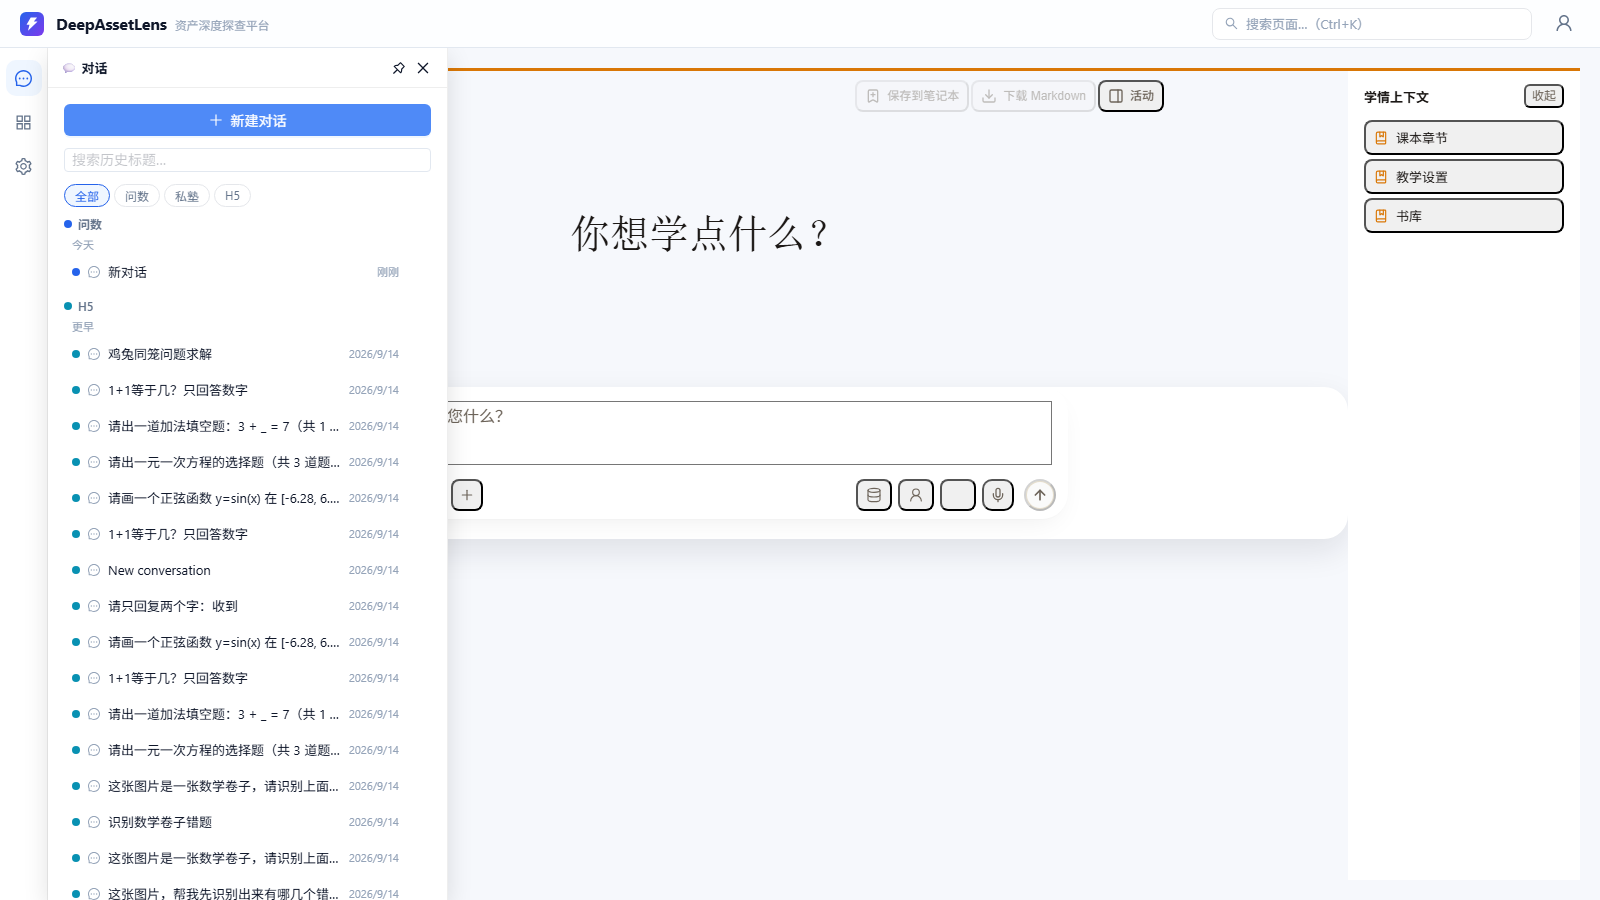
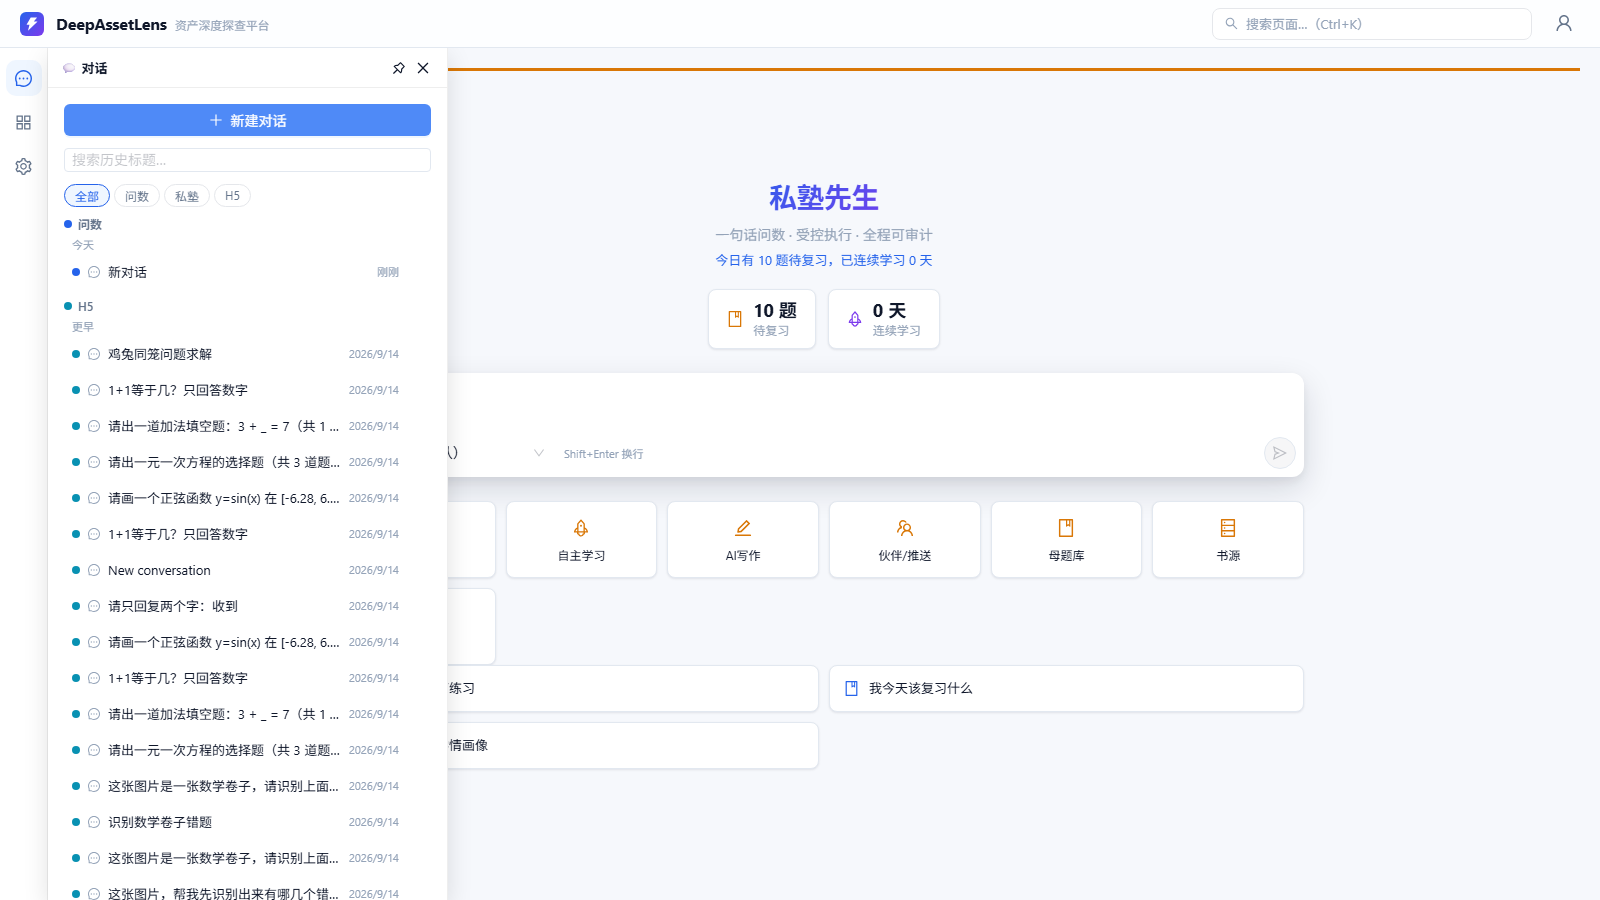
UX3修三BUG：①?new=1 清活跃位——store 刷新自动激活最近历史会话致点门户卡进历史对话，意图效果补 setActiveSessionId('') 落欢迎页；②/e/sishu/chat 换挂 ExpertChat——私塾风格收敛=问数同组件（琥珀色条+today-panel 胶囊+sishu 宫格），TutorHomeChat 全库无引用退役；③P0-C 探针断言更新到 UX2批「消费即剥」契约+补新建落欢迎页断言。对拍 13/13+P0 10/10+shell_v1 15/15，sishu 发送链路实测 freeplan stream expert_id=sishu 通。

diff --git a/frontend/src/config/expertPages.ts b/frontend/src/config/expertPages.ts
@@ -71,10 +71,11 @@ const PartnersNew = lazy(() => import(/* webpackChunkName: "dt-partners-new" */ 
 const PartnerDetail = lazy(() => import(/* webpackChunkName: "dt-partners-detail" */ '../pages/tutor/partners/PartnerDetail'));
 const SelfLearning = lazy(() => import(/* webpackChunkName: "dt-self-learning" */ '../pages/tutor/learning/SelfLearning'));
 
-// 引擎批2 2.5/2.6：DT 桌面对话窗口（home 页复刻壳+桥 SSE 态源——AgentChatContext）。
-// 静态路径 /e/sishu/chat 压过 routes.tsx 的 /e/:slug/chat 参数路由（v6 静态优先）；
-// ExpertChat 收归 wenshu（/e/wenshu/chat）——计划 2.6。
-const TutorHomeChat = lazy(() => import(/* webpackChunkName: "dt-tutor-home-chat" */ '../pages/tutor/chat/TutorHomeChat'));
+// 引擎批2 2.5/2.6 → UX3修：DT 桌面对话窗口原挂 TutorHomeChat（home 页复刻壳+桥 SSE 态源）。
+// UX3修：私塾对话收敛问数风格——/e/sishu/chat 改挂 ExpertChat（slug-aware：琥珀色条+
+// today-panel 统计胶囊+sishu 宫格），与 /e/wenshu/chat 同组件同骨架；静态路径仍压过
+// routes.tsx 的 /e/:slug/chat 参数路由（v6 静态优先）。TutorHomeChat 全库无引用，移除挂载。
+const ExpertChat = lazy(() => import(/* webpackChunkName: "expert-chat" */ '../pages/expert/ExpertChat'));
 
 const TUTOR_H5_PAGES: ExpertPageConfig[] = [
   // IA 件批1：16 条路由从 /e/sishu/{h5,notebook} 迁出 → /e/tutor-h5/*（menuKey 同步换前缀）；
@@ -147,7 +148,7 @@ export const EXPERT_PAGES: Record<string, ExpertPageConfig[]> = {
     // IA批6 6.3：桌面自主学习（use——与 h5 版 /e/tutor-h5/learn 并存，DT 本就两页各自 1:1）
     { path: '/e/sishu/self-learning', element: withUseGuard(SelfLearning), label: '自主学习', menuKey: 'e:sishu:self-learning' },
     // 引擎批2 2.6：DT 桌面对话窗口（navigation.tsx e:sishu:chat 既有占位→真路由）
-    { path: '/e/sishu/chat', element: withUseGuard(TutorHomeChat, 'sishu'), label: '对话', menuKey: 'e:sishu:chat' },
+    { path: '/e/sishu/chat', element: withUseGuard(ExpertChat, 'sishu'), label: '对话', menuKey: 'e:sishu:chat' }, // UX3修：风格收敛=问数同组件
     // 引擎批5 5.5：书籍工作台（DT book/page.tsx 1:1 壳件）
     { path: '/e/sishu/book', element: withUseGuard(BookWorkbench, 'sishu'), label: '书籍', menuKey: 'e:sishu:book' },
   ],

diff --git a/frontend/src/pages/expert/ExpertChat.tsx b/frontend/src/pages/expert/ExpertChat.tsx
@@ -142,6 +142,10 @@ const SUGGESTIONS = (card?.suggestions && card.suggestions.length > 0
     const sp = new URLSearchParams(location.search);
     if (sp.get('new') !== '1') return;
     newChatIntentRef.current = true;
+    // UX3修（BUG1）：清活跃位——store 刷新后自动指向最近历史会话（useStore init
+    // activeSessionId=_initialSessions[0]），仅设发送意图不清显示会照旧渲染历史对话。
+    // 置空串 → activeSession=undefined → hasMessages=false → 欢迎页；首问由意图位建新会话。
+    useStore.getState().setActiveSessionId('');
     sp.delete('new');
     navigate({ pathname: location.pathname, search: sp.toString() ? `?${sp.toString()}` : '' }, { replace: true });
     // eslint-disable-next-line react-hooks/exhaustive-deps

diff --git a/frontend/src/pages/ExpertPortal.tsx b/frontend/src/pages/ExpertPortal.tsx
@@ -63,7 +63,7 @@ const NewChatHome: React.FC = () => {
       navigate('/h5-publish');
       return;
     }
-    navigate(`/e/${slug}/chat`);
+    navigate(`/e/${slug}/chat?new=1`); // UX3修：?new=1 强制新会话（不复用残留活跃位）
   };
 
   return (

diff --git a/backend/scripts/_pw_ux3_fix.py b/backend/scripts/_pw_ux3_fix.py
@@ -1,0 +1,136 @@
+# -*- coding: utf-8 -*-
+"""UX3修 对拍：BUG1 门户卡→新会话欢迎页；BUG3 私塾风格收敛=问数同骨架；sishu 发送链路回归。
+
+断言账：
+B1a 首页门户卡在场（刷新后种子历史会话在 localStorage）
+B1b 点问数卡 → /e/wenshu/chat（?new=1 已清）
+B1c 历史消息未渲染（不再进历史对话）
+B1d 问数色条=蓝 + 欢迎页主视觉在场
+B3a 私塾色条=琥珀 #D97706（ExpertChat slug-aware）
+B3b 私塾功能宫格在场（sishu-space-grid）
+B3c today-panel 统计胶囊（待复习）
+B3d 旧 TutorHomeChat 欢迎语「下午好」退场
+S1  sishu 发送走 freeplan stream
+S2  请求带 expert_id=sishu
+S3  回复落定（loading 退场）
+零 pageerror
+"""
+import json
+import sys
+from pathlib import Path
+
+from playwright.sync_api import sync_playwright
+
+sys.stdout.reconfigure(encoding="utf-8", errors="replace")
+SCR = Path(__file__).parent
+BASE = "http://localhost:23000"
+R = []
+
+
+def check(name, ok, detail=""):
+    R.append((name, ok))
+    print(f"{'PASS' if ok else 'FAIL'}  {name}  {detail}"[:200], flush=True)
+
+
+SEED = json.dumps([{
+    "id": "ux3fix-hist", "title": "历史会话UX3修", "expertId": "wenshu",
+    "messages": [{"id": "m1", "role": "user", "text": "历史会话标记消息XYZABC", "payload": {}}],
+    "confirmed": {}, "flags": {}, "thinkStream": [], "pendingCandidates": [],
+    "finalTokens": [], "createdAt": 1700000000000,
+}], ensure_ascii=False)
+
+with sync_playwright() as p:
+    b = p.chromium.launch(headless=True)
+    sys.path.insert(0, str(SCR))
+    from _pw_login_util import login_page
+    pg = login_page(b)
+    pg.set_viewport_size({"width": 1920, "height": 1080})
+    errors = []
+    pg.on("pageerror", lambda e: errors.append(str(e)[:100]))
+
+    # ---------- BUG1: 首页刷新 → 点问数 → 欢迎页而非历史对话 ----------
+    pg.goto(BASE + "/", timeout=60000, wait_until="domcontentloaded")
+    pg.wait_for_timeout(4000)
+    pg.evaluate("(s) => localStorage.setItem('di_sessions_freeplan_v1', s)", SEED)
+    pg.reload(timeout=60000, wait_until="domcontentloaded")
+    pg.wait_for_timeout(6000)
+    cards = pg.locator("[data-testid='portal-card-wenshu']")
+    check("B1a 首页门户卡在场", cards.count() >= 1)
+    if cards.count():
+        cards.first.click()
+        pg.wait_for_timeout(4000)
+        url = pg.url
+        check("B1b 落点 /e/wenshu/chat（?new=1 已清）", "/e/wenshu/chat" in url and "new=1" not in url, url[:90])
+        hist = pg.locator("text=历史会话标记消息XYZABC")
+        check("B1c 历史消息未渲染", hist.count() == 0, f"hits={hist.count()}")
+        bar = pg.locator("[data-testid='space-color-bar']")
+        if bar.count():
+            bg = bar.first.evaluate("el => getComputedStyle(el).backgroundColor")
+            check("B1d 问数色条=蓝", "37, 99, 235" in bg, bg)
+        else:
+            check("B1d 问数色条=蓝", False, "bar not found")
+        welcome = pg.locator("text=数据资产探查")
+        check("B1d 欢迎页主视觉在场", welcome.count() >= 1, f"hits={welcome.count()}")
+        pg.screenshot(path=str(SCR / "_ux3fix_wenshu.png"))
+
+    # ---------- BUG3: 私塾风格收敛 ----------
+    pg.goto(BASE + "/e/sishu/chat?new=1", timeout=60000, wait_until="domcontentloaded")
+    pg.wait_for_timeout(7000)
+    bar2 = pg.locator("[data-testid='space-color-bar']")
+    if bar2.count():
+        bg2 = bar2.first.evaluate("el => getComputedStyle(el).backgroundColor")
+        check("B3a 私塾色条=琥珀#D97706", "217, 119, 6" in bg2, bg2)
+    else:
+        check("B3a 私塾色条=琥珀#D97706", False, "bar not found")
+    grid = pg.locator("[data-testid='sishu-space-grid']")
+    check("B3b 私塾功能宫格在场", grid.count() >= 1)
+    due = pg.locator("text=待复习")
+    check("B3c today-panel 统计胶囊", due.count() >= 1, f"hits={due.count()}")
+    old_title = pg.locator("text=下午好")
+    check("B3d 旧 TutorHomeChat 欢迎语退场", old_title.count() == 0, f"hits={old_title.count()}")
+
+    # ---------- sishu 发送链路（freeplan stream + expert_id=sishu）----------
+    req_info = {}
+
+    def on_req(req):
+        if "chat/freeplan/stream" in req.url:
+            req_info["url"] = req.url
+            try:
+                req_info["body"] = req.post_data or ""
+            except Exception:
+                req_info["body"] = ""
+
+    pg.on("request", on_req)
+    ta = pg.locator("textarea").first
+    if ta.count():
+        ta.click()
+        ta.fill("你好")
+        ta.press("Enter")
+        ok_req = False
+        for _ in range(30):
+            pg.wait_for_timeout(1000)
+            if req_info.get("url"):
+                ok_req = True
+                break
+        ok_resp = False
+        for _ in range(120):
+            pg.wait_for_timeout(1000)
+            if pg.evaluate("() => !document.body.innerText.includes('正在思考...')"):
+                ok_resp = True
+                break
+        check("S1 sishu 发送走 freeplan stream", ok_req, str(req_info.get("url", ""))[:80])
+        body = req_info.get("body", "")
+        check("S2 请求带 expert_id=sishu", "sishu" in body, body[:140].replace("\n", " "))
+        check("S3 回复落定（loading 退场）", ok_resp)
+        pg.screenshot(path=str(SCR / "_ux3fix_sishu.png"))
+    else:
+        check("S1 sishu 发送链路", False, "textarea not found")
+        check("S2 请求带 expert_id=sishu", False, "no request")
+        check("S3 回复落定（loading 退场）", False, "no send")
+
+    check("零 pageerror", len(errors) == 0, str(errors[:2]))
+    b.close()
+
+fails = [x for x, ok in R if not ok]
+print(f"\n=== UX3修 对拍：{len(R) - len(fails)}/{len(R)} PASS ===")
+sys.exit(1 if fails else 0)

diff --git a/backend/scripts/_pw_ux3_p0.py b/backend/scripts/_pw_ux3_p0.py
@@ -81,9 +81,13 @@ with sync_playwright() as p:
     pg.wait_for_timeout(400)
     pg.locator("[data-testid='chat-panel-new']").click()
     pg.wait_for_timeout(1500)
-    check("P0-C URL=?new=1 留守私塾", "/e/sishu/chat" in pg.url and "new=1" in pg.url, pg.url[:80])
+    # UX3修：?new=1 契约自 UX2批(6f1aaff) 起为「消费即剥」——意图效果 replace-navigate 清参；
+    # 留守语义由后两条承载（仍在本空间色条+面板未关）。断言从"参数留存"改"参数已消费"。
+    check("P0-C URL=?new=1 已消费（留守私塾）", "/e/sishu/chat" in pg.url and "new=1" not in pg.url, pg.url[:80])
     check("P0-C space-color-bar 仍可见", pg.locator("[data-testid='space-color-bar']").count() >= 1)
     check("P0-C 面板未关闭", pg.locator("[data-testid='chat-panel']").is_visible())
+    # UX3修：新建后落欢迎页（活跃位已清——与 BUG1 同契约）；sishu 宫格仅在欢迎视图渲染
+    check("P0-C 新建落欢迎页", pg.locator("[data-testid='sishu-space-grid']").count() >= 1)
     pg.screenshot(path=str(SCR / "_ux3p0_c.png"))
 
     check("零 pageerror", len(pageerrors) == 0, str(pageerrors[:2]))
